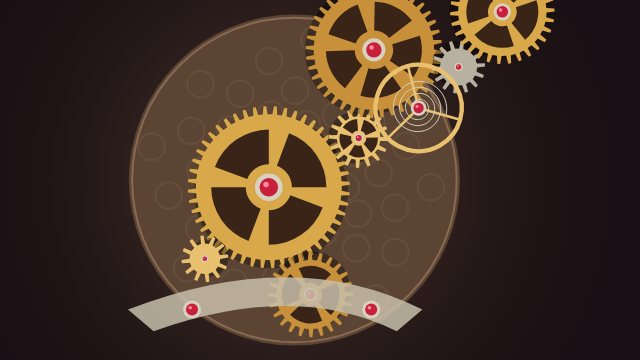
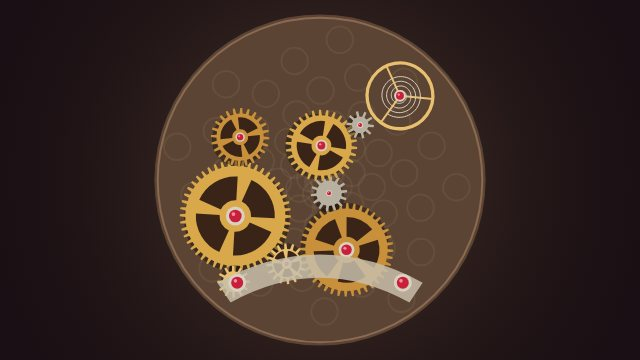
v1.4.1: fix Watchmaker layout, NGMI Runner HUD, 3D Text default motion
Claude-Session: https://claude.ai/code/session_01PrQtwhNdQhRf9oRtnhPh9K

diff --git a/src/scenes/generative/watchmaker.ts b/src/scenes/generative/watchmaker.ts
@@ -28,16 +28,23 @@ class Watchmaker extends PixelScene {
   dither() {
     return 0.35
   }
+  // plate geometry and balance wheel, computed in layout()
+  px = 0
+  py = 0
+  plate = 0
+  bx = 0
+  by = 0
+  br = 0
   layout() {
     const { w, h } = this
     if (!w) return
-    const m = Math.min(w, h) / 180 // module: tooth size
+    // build the train in tooth-module units around the origin, then fit it to the plate
     const gears: Gear[] = []
     const cols = ['#d9a84a', '#e8c070', '#c8903a', '#b8b0a0']
     const add = (teeth: number, from: Gear | null, ang: number) => {
-      const r = (teeth * m * 1.6) / 2
-      let x = w / 2
-      let y = h / 2
+      const r = (teeth * 1.6) / 2
+      let x = 0
+      let y = 0
       let ratio = 1
       let phase = 0
       if (from) {
@@ -53,16 +60,70 @@ class Watchmaker extends PixelScene {
       return g
     }
     const main = add(48, null, 0)
-    main.x = w * 0.42
-    main.y = h * 0.52
-    const g2 = add(16, main, -0.5)
-    const g3 = add(40, g2, -1.4)
-    const g4 = add(14, g3, 0.2)
-    const g5 = add(30, g4, -0.9)
-    add(12, main, 2.3)
-    add(24, main, 1.2)
-    const g8 = add(10, g5, -2)
-    void g8
+    // angles chosen offline so the wheels cluster tightly without touching
+    const g2 = add(16, main, 0.75)
+    const g3 = add(40, g2, -0.23)
+    const g4 = add(14, g3, -1.87)
+    const g5 = add(30, g4, -1.73)
+    add(12, main, 1.6)
+    add(24, main, -1.51)
+    const esc = add(10, g5, -0.49)
+    // the balance sits beside the escape wheel, on the side away from the train
+    const br0 = 24
+    const ox = esc.x - main.x
+    const oy = esc.y - main.y
+    const ol = Math.hypot(ox, oy) || 1
+    const bd = esc.r + br0 + 4
+    const bx0 = esc.x + (ox / ol) * bd
+    const by0 = esc.y + (oy / ol) * bd
+    // bounding box of everything (teeth included)
+    let x0 = bx0 - br0
+    let x1 = bx0 + br0
+    let y0 = by0 - br0
+    let y1 = by0 + br0
+    for (const g of gears) {
+      const e = g.r + 1.6
+      x0 = Math.min(x0, g.x - e)
+      x1 = Math.max(x1, g.x + e)
+      y0 = Math.min(y0, g.y - e)
+      y1 = Math.max(y1, g.y + e)
+    }
+    // smallest enclosing circle, found by a coarse-to-fine search over its centre
+    const reach = (qx: number, qy: number) => {
+      let r = Math.hypot(bx0 - qx, by0 - qy) + br0
+      for (const g of gears) r = Math.max(r, Math.hypot(g.x - qx, g.y - qy) + g.r + 1.6)
+      return r
+    }
+    let cx = (x0 + x1) / 2
+    let cy = (y0 + y1) / 2
+    let R = reach(cx, cy)
+    for (let stepSize = (x1 - x0) / 4; stepSize > 0.2; stepSize /= 2) {
+      let moved = true
+      while (moved) {
+        moved = false
+        for (const [dx, dy] of [[1, 0], [-1, 0], [0, 1], [0, -1]]) {
+          const r = reach(cx + dx * stepSize, cy + dy * stepSize)
+          if (r < R) {
+            R = r
+            cx += dx * stepSize
+            cy += dy * stepSize
+            moved = true
+          }
+        }
+      }
+    }
+    this.px = w / 2
+    this.py = h / 2
+    this.plate = Math.min(w, h) * 0.46
+    const k = (this.plate * 0.9) / R
+    for (const g of gears) {
+      g.x = this.px + (g.x - cx) * k
+      g.y = this.py + (g.y - cy) * k
+      g.r *= k
+    }
+    this.bx = this.px + (bx0 - cx) * k
+    this.by = this.py + (by0 - cy) * k
+    this.br = br0 * k
     this.gears = gears
   }
   step(dt: number) {
@@ -80,17 +141,17 @@ class Watchmaker extends PixelScene {
     // velvet bench and loupe light
     c.fillStyle = '#1a0f14'
     c.fillRect(0, 0, w, h)
-    glow(c, w * 0.45, h * 0.5, Math.max(w, h) * 0.6, 'rgba(255,200,120,0.25)')
+    glow(c, this.px, this.py, Math.max(w, h) * 0.6, 'rgba(255,200,120,0.25)')
     // main plate
-    const plate = Math.min(w, h) * 0.46
+    const { px, py, plate } = this
     c.fillStyle = '#5c4434'
     c.beginPath()
-    c.arc(w * 0.46, h * 0.5, plate, 0, TAU)
+    c.arc(px, py, plate, 0, TAU)
     c.fill()
     c.strokeStyle = '#8a6a52'
     c.lineWidth = Math.max(1, u)
     c.beginPath()
-    c.arc(w * 0.46, h * 0.5, plate * 0.98, 0, TAU)
+    c.arc(px, py, plate * 0.98, 0, TAU)
     c.stroke()
     // perlage pattern on the plate
     c.strokeStyle = 'rgba(255,230,180,0.06)'
@@ -98,14 +159,12 @@ class Watchmaker extends PixelScene {
       const a = i * 2.4
       const d = (i / 60) * plate * 0.9
       c.beginPath()
-      c.arc(w * 0.46 + Math.cos(a) * d, h * 0.5 + Math.sin(a) * d, plate * 0.08, 0, TAU)
+      c.arc(px + Math.cos(a) * d, py + Math.sin(a) * d, plate * 0.08, 0, TAU)
       c.stroke()
     }
     for (const g of this.gears) this.gear(g)
     // balance wheel on the right, swinging back and forth
-    const bx = Math.min(w * 0.8, w * 0.46 + plate * 0.75)
-    const by = h * 0.3
-    const br = Math.min(w, h) * 0.12
+    const { bx, by, br } = this
     const swing = Math.sin(this.t * this.num('speed') * 5) * 2.2
     c.save()
     c.translate(bx, by)
@@ -134,16 +193,16 @@ class Watchmaker extends PixelScene {
     }
     c.stroke()
     this.jewel(bx, by, br * 0.12)
-    // bridge over the train
+    // bridge across the lower plate, screwed down with two jewels
     c.fillStyle = 'rgba(200,190,170,0.85)'
     c.beginPath()
-    c.moveTo(w * 0.2, h * 0.86)
-    c.quadraticCurveTo(w * 0.46, h * 0.68, w * 0.66, h * 0.86)
-    c.lineTo(w * 0.62, h * 0.92)
-    c.quadraticCurveTo(w * 0.46, h * 0.78, w * 0.24, h * 0.92)
+    c.moveTo(px - plate * 0.62, py + plate * 0.62)
+    c.quadraticCurveTo(px, py + plate * 0.28, px + plate * 0.62, py + plate * 0.62)
+    c.lineTo(px + plate * 0.54, py + plate * 0.74)
+    c.quadraticCurveTo(px, py + plate * 0.44, px - plate * 0.54, py + plate * 0.74)
     c.fill()
-    this.jewel(w * 0.3, h * 0.86, 3 * u)
-    this.jewel(w * 0.58, h * 0.86, 3 * u)
+    this.jewel(px - plate * 0.5, py + plate * 0.62, 3 * u)
+    this.jewel(px + plate * 0.5, py + plate * 0.62, 3 * u)
   }
   gear(g: Gear) {
     const c = this.c

diff --git a/src/scenes/retro/index.ts b/src/scenes/retro/index.ts
@@ -172,7 +172,7 @@ export const retroScenes: SceneEntry[] = [
     settings: [
       { key: 'text', label: 'Text', type: 'select', options: [{ value: 'NGMI', label: 'NGMI' }, { value: 'WAGMI', label: 'WAGMI' }, { value: 'GM', label: 'GM' }, { value: 'AFK', label: 'AFK' }, { value: 'WEN MOON', label: 'WEN MOON' }], default: 'NGMI' },
       { key: 'style', label: 'Material', type: 'select', options: [{ value: 'chrome', label: 'Chrome' }, { value: 'gold', label: 'Gold' }, { value: 'neon', label: 'Neon' }], default: 'chrome' },
-      { key: 'motion', label: 'Motion', type: 'select', options: [{ value: 'spin', label: 'Spin' }, { value: 'seesaw', label: 'See-saw' }, { value: 'wobble', label: 'Wobble' }], default: 'spin' },
+      { key: 'motion', label: 'Motion', type: 'select', options: [{ value: 'spin', label: 'Spin' }, { value: 'seesaw', label: 'See-saw' }, { value: 'wobble', label: 'Wobble' }], default: 'seesaw' },
       { key: 'speed', label: 'Speed', type: 'range', min: 0.2, max: 3, step: 0.1, default: 1 },
     ],
     load: () => import('./text3d'),

diff --git a/src/scenes/pixel/ngmiRunner.ts b/src/scenes/pixel/ngmiRunner.ts
@@ -201,7 +201,7 @@ class NgmiRunner extends PixelScene {
     c.textAlign = 'left'
     c.fillStyle = MIDINK
     font(c, 7 * s, VT)
-    c.fillText(VW > 210 ? 'GARY\u2019S ADVENTURES: NGMI  //  DEMO' : 'NGMI  //  DEMO', X(8), Y(top))
+    c.fillText(VW > 210 ? 'GARY\u2019S ADVENTURES: NGMI  //  DEMO' : 'NGMI  //  DEMO', X(8), Y(top - 11))
     if (this.dead) {
       c.textAlign = 'center'
       font(c, 16 * s, VT)

diff --git a/CHANGELOG.md b/CHANGELOG.md
@@ -9,6 +9,14 @@
   flat undersides and scalloped, cloud-like tops forming a scalene triangle, the tree off-centre in a shallow pot, on a stand with
   an accent plant. New settings: light (morning, midday, evening) and breeze.
 
+### Fixed
+- **Watchmaker**: the gear train is laid out compactly, then fitted and centred inside the plate
+  (no wheel spills over the edge any more); the balance wheel sits next to the escape wheel and the
+  bridge follows the plate.
+- **NGMI Runner**: the title line no longer overlaps the high score in landscape.
+- **3D Text**: the default motion is now see-saw, so words are never shown mirrored from behind
+  (spin is still available).
+
 ## 1.4.0 (2026-11-26)
 
 ### Art direction

diff --git a/docs/test-results.md b/docs/test-results.md
@@ -1,6 +1,6 @@
-# Test results (v1.4.0)
+# Test results (v1.4.1)
 
-Real results from 2026-11-25 23:34 UTC. Nothing here is estimated.
+Real results from 2026-11-26 05:57 UTC. Nothing here is estimated.
 
 Environment: headless Google Chrome (Playwright) on Linux, **software rendering** (no GPU),
 production build served by `vite preview` under `/garys-afk/`. Real devices and other browsers
